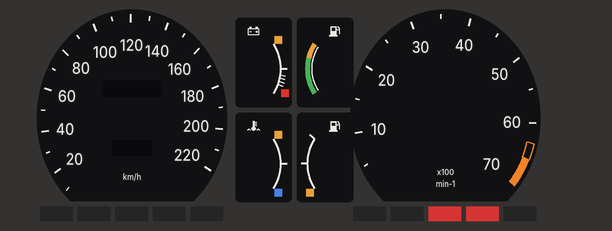
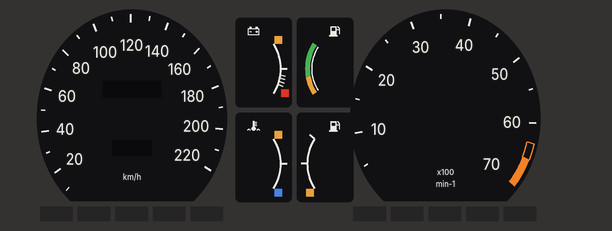
Ponteiros da Fúria TR (barra grossa sem rabicho) e do GTI (branco afinado, miolo maior); conta-giros na escala real (tachReal) e descanso do velocímetro (speedRest); Ímola: verde do econômetro em cima e luzes de óleo e freio de mão funcionais (v0.29.3)
Claude-Session: https://claude.ai/code/session_01MLD9VR7gkmY4w6a9beZcp6

Changed region(s): [[0.683, 0.8788, 0.8382, 0.9697], [0.4967, 0.3333, 0.5278, 0.4242], [0.4967, 0.1818, 0.5278, 0.2727]]

diff --git a/src/cockpit.ts b/src/cockpit.ts
@@ -17,6 +17,7 @@ import { drawWipers, type DashTop } from './wipers';
 import { drawSideMirror, findGlass } from './sidemirror';
 import { drawSmoke } from './smoke';
 import { blinkOn } from './cars';
+import { engineSpec } from './enginesynth';
 // cabines em pixel art (tools/ref/import_cockpit.py)
 import dashF40Png from './assets/cockpit/f40-dash.png';
 import wheelF40Png from './assets/cockpit/f40-wheel.png';
@@ -67,6 +68,8 @@ interface CockpitArt {
   hub: string;
   aux: Aux[];
   hubR?: number; // raio do miolo redondo dos ponteiros grandes
+  speedRest?: number; // km/h onde o ponteiro descansa parado (escalas que começam em 20: o pino fica pouco abaixo do 20)
+  tachReal?: boolean; // conta-giros na escala de verdade: giro real (do motor do carro) sobre o máximo do mostrador
   needleTip?: number; // com needleFine: largura da ponta em fração da base (padrão 0,12; 0,5 = ponteiro em barra, quase reto)
   needleFine?: boolean; // ponteiro afinando até a ponta, com suavização (como o desenho da arte)
   faces?: { src: string; src2?: string; x: number; y: number; w: number; h: number }[]; // fundos dos mostradores em alta resolução (src2: versão feita para RES 2)
@@ -250,7 +253,7 @@ COCKPIT_ART['br-golgti'] = {
   tells: null,
   dash: cp('br-golgti-dash'), top: cp('br-golgti-top'), wheel: cp('br-golgti-wheel'), dashMask: cp('br-golgti-dash-mask'), topMask: cp('br-golgti-top-mask'),
   glass: { at: [86, 110], thr: 256 }, // retrovisor esquerdo (vidro transparente na arte)
-  pivot: [128, 112], wheelTop: 8, radar: [206, 20], speedMax: 240, needle: '#f2eee2', needleW: 1.5, needleTail: 3.0, needleFine: true, hub: '#141416', hubR: 1.7,
+  pivot: [128, 112], wheelTop: 8, radar: [206, 20], speedMax: 240, needle: '#f2eee2', needleW: 2.2, needleTail: 0, needleFine: true, needleTip: 0.22, tachReal: true, speedRest: 14, hub: '#141416', hubR: 2.3,
   faces: [{ src: cp('br-golgti-cluster'), x: 69.5, y: 31.5, w: 118, h: 47 }],
   glow: '255,120,40', glowK: 0.6,
   facesLit: '255,190,130', litMin: 150, litByMax: true, litNeedles: true, // à noite os números laranja e os textos brancos acendem
@@ -274,11 +277,18 @@ COCKPIT_ART['br-golgti'] = {
 // 20-220 com hodômetro e parcial, conta-giros 10-70 com faixa vermelha vazada e, no meio, quatro
 // mostradores de arco em pé (voltímetro, econômetro, temperatura e combustível); ponteiros laranja
 const MZ_DEG = Math.PI / 180;
+// luzes-espia vermelhas do Ímola (janelas 3 e 4 embaixo do conta-giros): pressão do óleo (motor
+// ainda pegando ou quebrado) e freio de mão (parado, sem acelerar); k = escala do quadro
+function monzaLamps(c: CanvasRenderingContext2D, r: Race, x: (v: number) => number, y: number, k: number) {
+  const on = [r.rpm < 0.05 || r.damage > 0.6 || r.state === 'crash', r.speed < 1 && !r.throttle];
+  c.fillStyle = '#e8322c';
+  on.forEach((lit, i) => { if (lit) c.fillRect(x(175.8 - 23 + (i + 2) * 9.4), y, 8.2 * k, 3.7 * k); });
+}
 COCKPIT_ART['br-monza'] = {
   tells: null,
   dash: cp('br-monza-dash'), top: cp('br-monza-top'), wheel: cp('br-monza-wheel'), dashMask: cp('br-monza-dash-mask'), topMask: cp('br-monza-top-mask'),
   glass: { at: [56, 108], thr: 256 }, // retrovisor esquerdo (vidro transparente na arte)
-  pivot: [128, 112], wheelTop: 8, radar: [222, 12], speedMax: 220, needle: '#f47c2c', needleW: 2.0, needleTail: 1, needleFine: true, needleTip: 0.4, hub: '#0e0e10', hubR: 3.0,
+  pivot: [128, 112], wheelTop: 8, radar: [222, 12], speedMax: 220, needle: '#f47c2c', needleW: 2.0, needleTail: 1, needleFine: true, needleTip: 0.4, tachReal: true, speedRest: 14, hub: '#0e0e10', hubR: 3.0,
   faces: [{ src: cp('br-monza-cluster'), x: 64.5, y: 37.5, w: 153, h: 54 }],
   glow: '255,120,40', glowK: 0.6,
   facesLit: '255,190,130', litMin: 150, litByMax: true, litNeedles: true,
@@ -293,6 +303,7 @@ COCKPIT_ART['br-monza'] = {
   extra: (c, ox, r) => {
     odometer(c, ox, r, { x: 90.3, y: 56.1, w: 14.4, h: 3.6 }, 16803, 6, 0.5);
     odometer(c, ox, r, { x: 92.7, y: 70.8, w: 9.6, h: 3.4 }, 481.3, 4, 0.5, true);
+    monzaLamps(c, r, (v) => ox + v, ART_TOP + 87.3, 1);
   },
 };
 
@@ -304,7 +315,7 @@ COCKPIT_ART['br-monzasedan'] = {
   tells: null,
   dash: cp('br-monzasedan-dash'), top: cp('br-monzasedan-top'), wheel: cp('br-monzasedan-wheel'),
   glass: { at: [52, 111], thr: 256 }, // retrovisor esquerdo (vidro transparente na arte)
-  pivot: [128, 112], wheelTop: 8, radar: [222, 16], speedMax: 220, needle: '#f0a024', needleW: 1.8, needleTail: 1, needleFine: true, needleTip: 0.4, hub: '#0e0e10', hubR: 2.6,
+  pivot: [128, 112], wheelTop: 8, radar: [222, 16], speedMax: 220, needle: '#f0a024', needleW: 1.8, needleTail: 1, needleFine: true, needleTip: 0.4, tachReal: true, speedRest: 14, hub: '#0e0e10', hubR: 2.6,
   faces: [{ src: cp('br-monzasedan-cluster'), x: 66.71, y: 42.57, w: 132.3, h: 49.98 }],
   glow: '255,150,60', glowK: 0.5,
   facesLit: '255,220,170', litMin: 150, litByMax: true, litNeedles: true,
@@ -319,6 +330,7 @@ COCKPIT_ART['br-monzasedan'] = {
   extra: (c, ox, r) => {
     odometer(c, ox, r, { x: 89.0, y: 60.3, w: 12.5, h: 3.2 }, 63985, 6, 0.43);
     odometer(c, ox, r, { x: 91.1, y: 73.0, w: 8.3, h: 3.0 }, 215.4, 4, 0.43, true);
+    monzaLamps(c, r, (v) => ox + MS_X(v) + 0.5, ART_TOP + MS_Y(87.3) + 0.5, MS_K);
   },
 };
 
@@ -725,7 +737,7 @@ function c4Cluster(c: CanvasRenderingContext2D, ox: number, r: Race) {
 // 0-320 e conta-giros 0-100 (x 100) com faixa vermelha, óleo e água no meio; tudo aceso em laranja
 COCKPIT_ART.testarossa = {
   dash: cp('testarossa-dash'), top: cp('testarossa-top'), wheel: cp('testarossa-wheel'),
-  pivot: [128, 105], wheelTop: 12, speedMax: 320, needle: '#ff8a1c', needleW: 1.5, needleTail: 3, needleFine: true, hub: '#141415', hubR: 2.2,
+  pivot: [128, 105], wheelTop: 12, speedMax: 320, needle: '#ff8a1c', needleW: 2.3, needleTail: 0, needleFine: true, needleTip: 0.42, tachReal: true, hub: '#101011', hubR: 1.6,
   glass: { at: [12, 96], thr: 256, x0: 3, toEdge: true }, glow: '255,140,40', tells: null,
   faces: [{ src: cp('tr-cluster'), src2: cp('tr-cluster-2x'), x: 63.5, y: 29.5, w: 137, h: 54 }],
   speed: { x: 95.4, y: 53.7, r: 21, max: 320, labels: [], tick: 20, red: 999, face: false, a0: 135 * (Math.PI / 180), sweep: 270 * (Math.PI / 180) },
@@ -1072,15 +1084,15 @@ function drawCockpitArt(c: CanvasRenderingContext2D, r: Race, dt: number, art: C
   }
   // fundo aceso por trás: os ponteiros (sem luz própria) ficam escuros contra ele
   const artN = art.facesLit && !art.litNeedles && dk > 0.02 ? { ...art, needle: shade(art.needle, -0.55 * Math.min(1, dk / 0.6)) } : art;
-  if (art.tach) artDial(c, art.tach, ox, 0.06 + Math.min(1, r.rpm) * 0.82, artN);
-  if (art.speed) artDial(c, art.speed, ox, (r.speed * KMH) / art.speedMax, artN);
+  if (art.tach) artDial(c, art.tach, ox, tachFrac(art, r), artN);
+  if (art.speed) artDial(c, art.speed, ox, Math.max(art.speedRest ?? 0, r.speed * KMH) / art.speedMax, artN);
   updateGauges(r, dt);
   for (const g of art.aux) auxDial(c, g, ox, artN);
   if (art.extra) {
     art.extra(c, ox, r);
     // hodômetros e submostradores ficam no fundo do mostrador: o ponteiro passa por cima
-    if (art.tach) dialNeedle(c, art.tach, ox, 0.06 + Math.min(1, r.rpm) * 0.82, artN);
-    if (art.speed) dialNeedle(c, art.speed, ox, (r.speed * KMH) / art.speedMax, artN);
+    if (art.tach) dialNeedle(c, art.tach, ox, tachFrac(art, r), artN);
+    if (art.speed) dialNeedle(c, art.speed, ox, Math.max(art.speedRest ?? 0, r.speed * KMH) / art.speedMax, artN);
   }
   instrumentGlow(c, ox, art, dk / 0.6);
   // detector de radar (com as luzes do pisca dos lados); cada cabine pode pô-lo num lugar livre
@@ -1222,6 +1234,17 @@ function artDial(c: CanvasRenderingContext2D, d: Dial, ox: number, frac: number,
   }
   c.restore();
   needle(c, cx, cy, r, a0 + sweep * Math.max(0, Math.min(1.02, frac)), art);
+}
+
+// fração do conta-giros: padrão genérico (6% a 88% da escala); com tachReal, o giro de verdade
+// (marcha lenta até o corte do motor daquele carro) na escala desenhada no mostrador
+const redlines = new Map<string, number>();
+function tachFrac(art: CockpitArt, r: Race): number {
+  const rpm = Math.min(1, r.rpm);
+  if (!art.tachReal || !art.tach) return 0.06 + rpm * 0.82;
+  let red = redlines.get(r.car.id);
+  if (!red) redlines.set(r.car.id, red = engineSpec(r.car.engine, r.car.id).redline);
+  return (rpm * red) / (art.tach.max * 1000);
 }
 
 function dialNeedle(c: CanvasRenderingContext2D, d: Dial, ox: number, frac: number, art: CockpitArt) {

diff --git a/tools/ref/monza_gauges.py b/tools/ref/monza_gauges.py
@@ -183,9 +183,10 @@ def small(d, x0, y0, x1, y1, kind):
         c = at(g, ang(f), g['r'] + out)
         d.rectangle([c[0] - 0.95 * K, c[1] - 0.95 * K, c[0] + 0.95 * K, c[1] + 0.95 * K], fill=col)
 
-    if kind == 'vac':  # econômetro: arco verde largo (zona econômica) e o alto âmbar
-        d.line(arc[:15], fill=GREEN, width=int(1.3 * K), joint='curve')
-        d.line(arc[14:], fill=AMBER, width=int(1.3 * K), joint='curve')
+    if kind == 'vac':  # econômetro
+        # verde em cima (pé leve, ponteiro alto) e âmbar embaixo (acelerando fundo o ponteiro desce: gasta mais)
+        d.line(arc[:8], fill=AMBER, width=int(1.3 * K), joint='curve')
+        d.line(arc[7:], fill=GREEN, width=int(1.3 * K), joint='curve')
         d.line([at(g, ang(i / n), g['r'] - 1.1) for i in range(n + 1)], fill=INK, width=int(0.35 * K), joint='curve')
         ico_pump(d, ix, iy, u)
     else:
@@ -207,12 +208,12 @@ def small(d, x0, y0, x1, y1, kind):
 
 
 def lamps(d):
-    """luzes-espia: fileira de janelas retangulares embaixo dos dois mostradores (duas vermelhas acesas)"""
+    """luzes-espia: fileira de janelas retangulares embaixo dos dois mostradores (o jogo acende as vermelhas: extra em COCKPIT_ART)"""
     for cx, reds in ((SPEED['x'], ()), (TACH['x'], (2, 3))):
         for i in range(5):
             x = cx - 23.0 + i * 9.4
             a, b = P(x, 87.3), P(x + 8.2, 91.0)
-            d.rectangle([a[0], a[1], b[0], b[1]], fill=(214, 52, 52) if i in reds else (38, 37, 37))
+            d.rectangle([a[0], a[1], b[0], b[1]], fill=(38, 37, 37))  # apagadas: o jogo acende óleo e freio de mão na hora certa
 
 
 def main():

diff --git a/CLAUDE.md b/CLAUDE.md
@@ -47,6 +47,12 @@
   cortados, em painel), o lado do pivô e do arco de cada mostrador pequeno, a posição dos números em
   relação às marcações, o formato do ponteiro (barra ou afinado: `needleTip`) e as luzes-espia.
   Quadros só ficam parecidos entre carros que usam o mesmo quadro de verdade (Ímola hatch/sedã/cupê).
+- Ponteiros: conferir parado e acelerando (print dos dois). O conta-giros mostra o giro de verdade na
+  escala do mostrador (`tachReal`), o velocímetro descansa onde o real descansa (`speedRest`), e o
+  formato vem da foto (barra grossa sem rabicho na Fúria TR, branco afinado no GTI).
+- Luzes-espia nunca ficam acesas na arte: desenhar apagadas e acender no jogo na hora certa (óleo,
+  freio de mão, pisca). Faixas de cor seguem a lógica do ponteiro (econômetro: verde onde ele fica com
+  o pé leve).
 
 ## Capas da revista (fotos)
 - Toda foto de capa (`src/photos.ts`) leva `box: [x0, y0, x1, y1]` em pixels da foto de 560 x 315:
